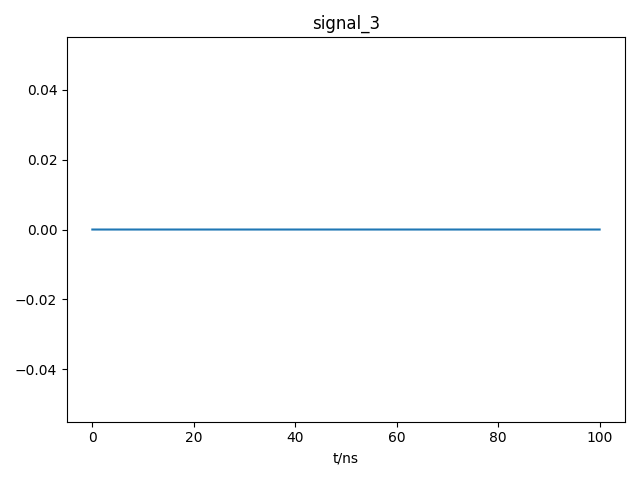
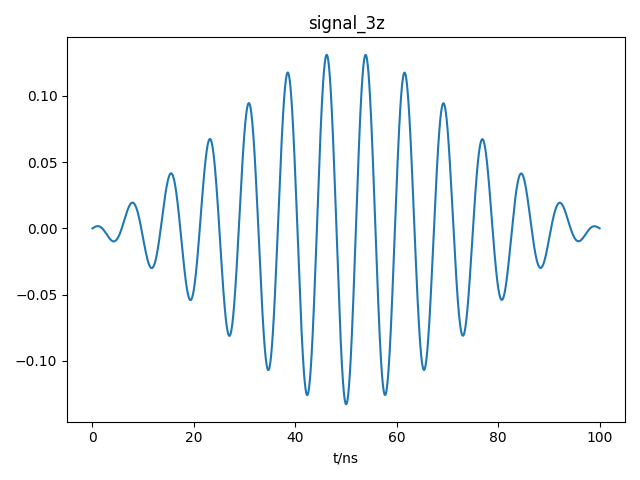
1.0

diff --git a/example/ACCZ/ACCZ.py b/example/ACCZ/ACCZ.py
@@ -115,8 +115,8 @@ envolope = envolope/amp_norm
 waveform_ts = waveform_ts/amp_norm
 circuit.signal_3z = waveform_ts
 plt.figure()
-plt.plot(circuit.t_list*1E9, circuit.signal_3)
-plt.title("signal_3")
+plt.plot(circuit.t_list*1E9, circuit.signal_3z)
+plt.title("signal_3z")
 plt.xlabel("t/ns")
 plt.tight_layout()
 plt.savefig(fname="ACCZ_signal.png")

diff --git a/README.md b/README.md
@@ -23,3 +23,11 @@
 ![](./example/X2PQ1_idleQ2_SFQ/uncoherent/6/X2PQ1_idleQ2_signal.png)
 ![](./example/X2PQ1_idleQ2_SFQ/uncoherent/6/X2PQ1_idleQ2_SFQ.png)
 ![](./example/X2PQ1_idleQ2_SFQ/uncoherent/6/X2PQ1_idleQ2_SFQ_result.png)
+## ACCZ
+![](./example/ACCZ/ACCZ_signal.png)
+![](./example/ACCZ/ACCZ.png)
+![](./example/ACCZ/ACCZ_result.png)
+## DCCZ
+![](./example/DCCZ/DCCZ_signal.png)
+![](./example/DCCZ/DCCZ.png)
+![](./example/DCCZ/DCCZ_result.png)
